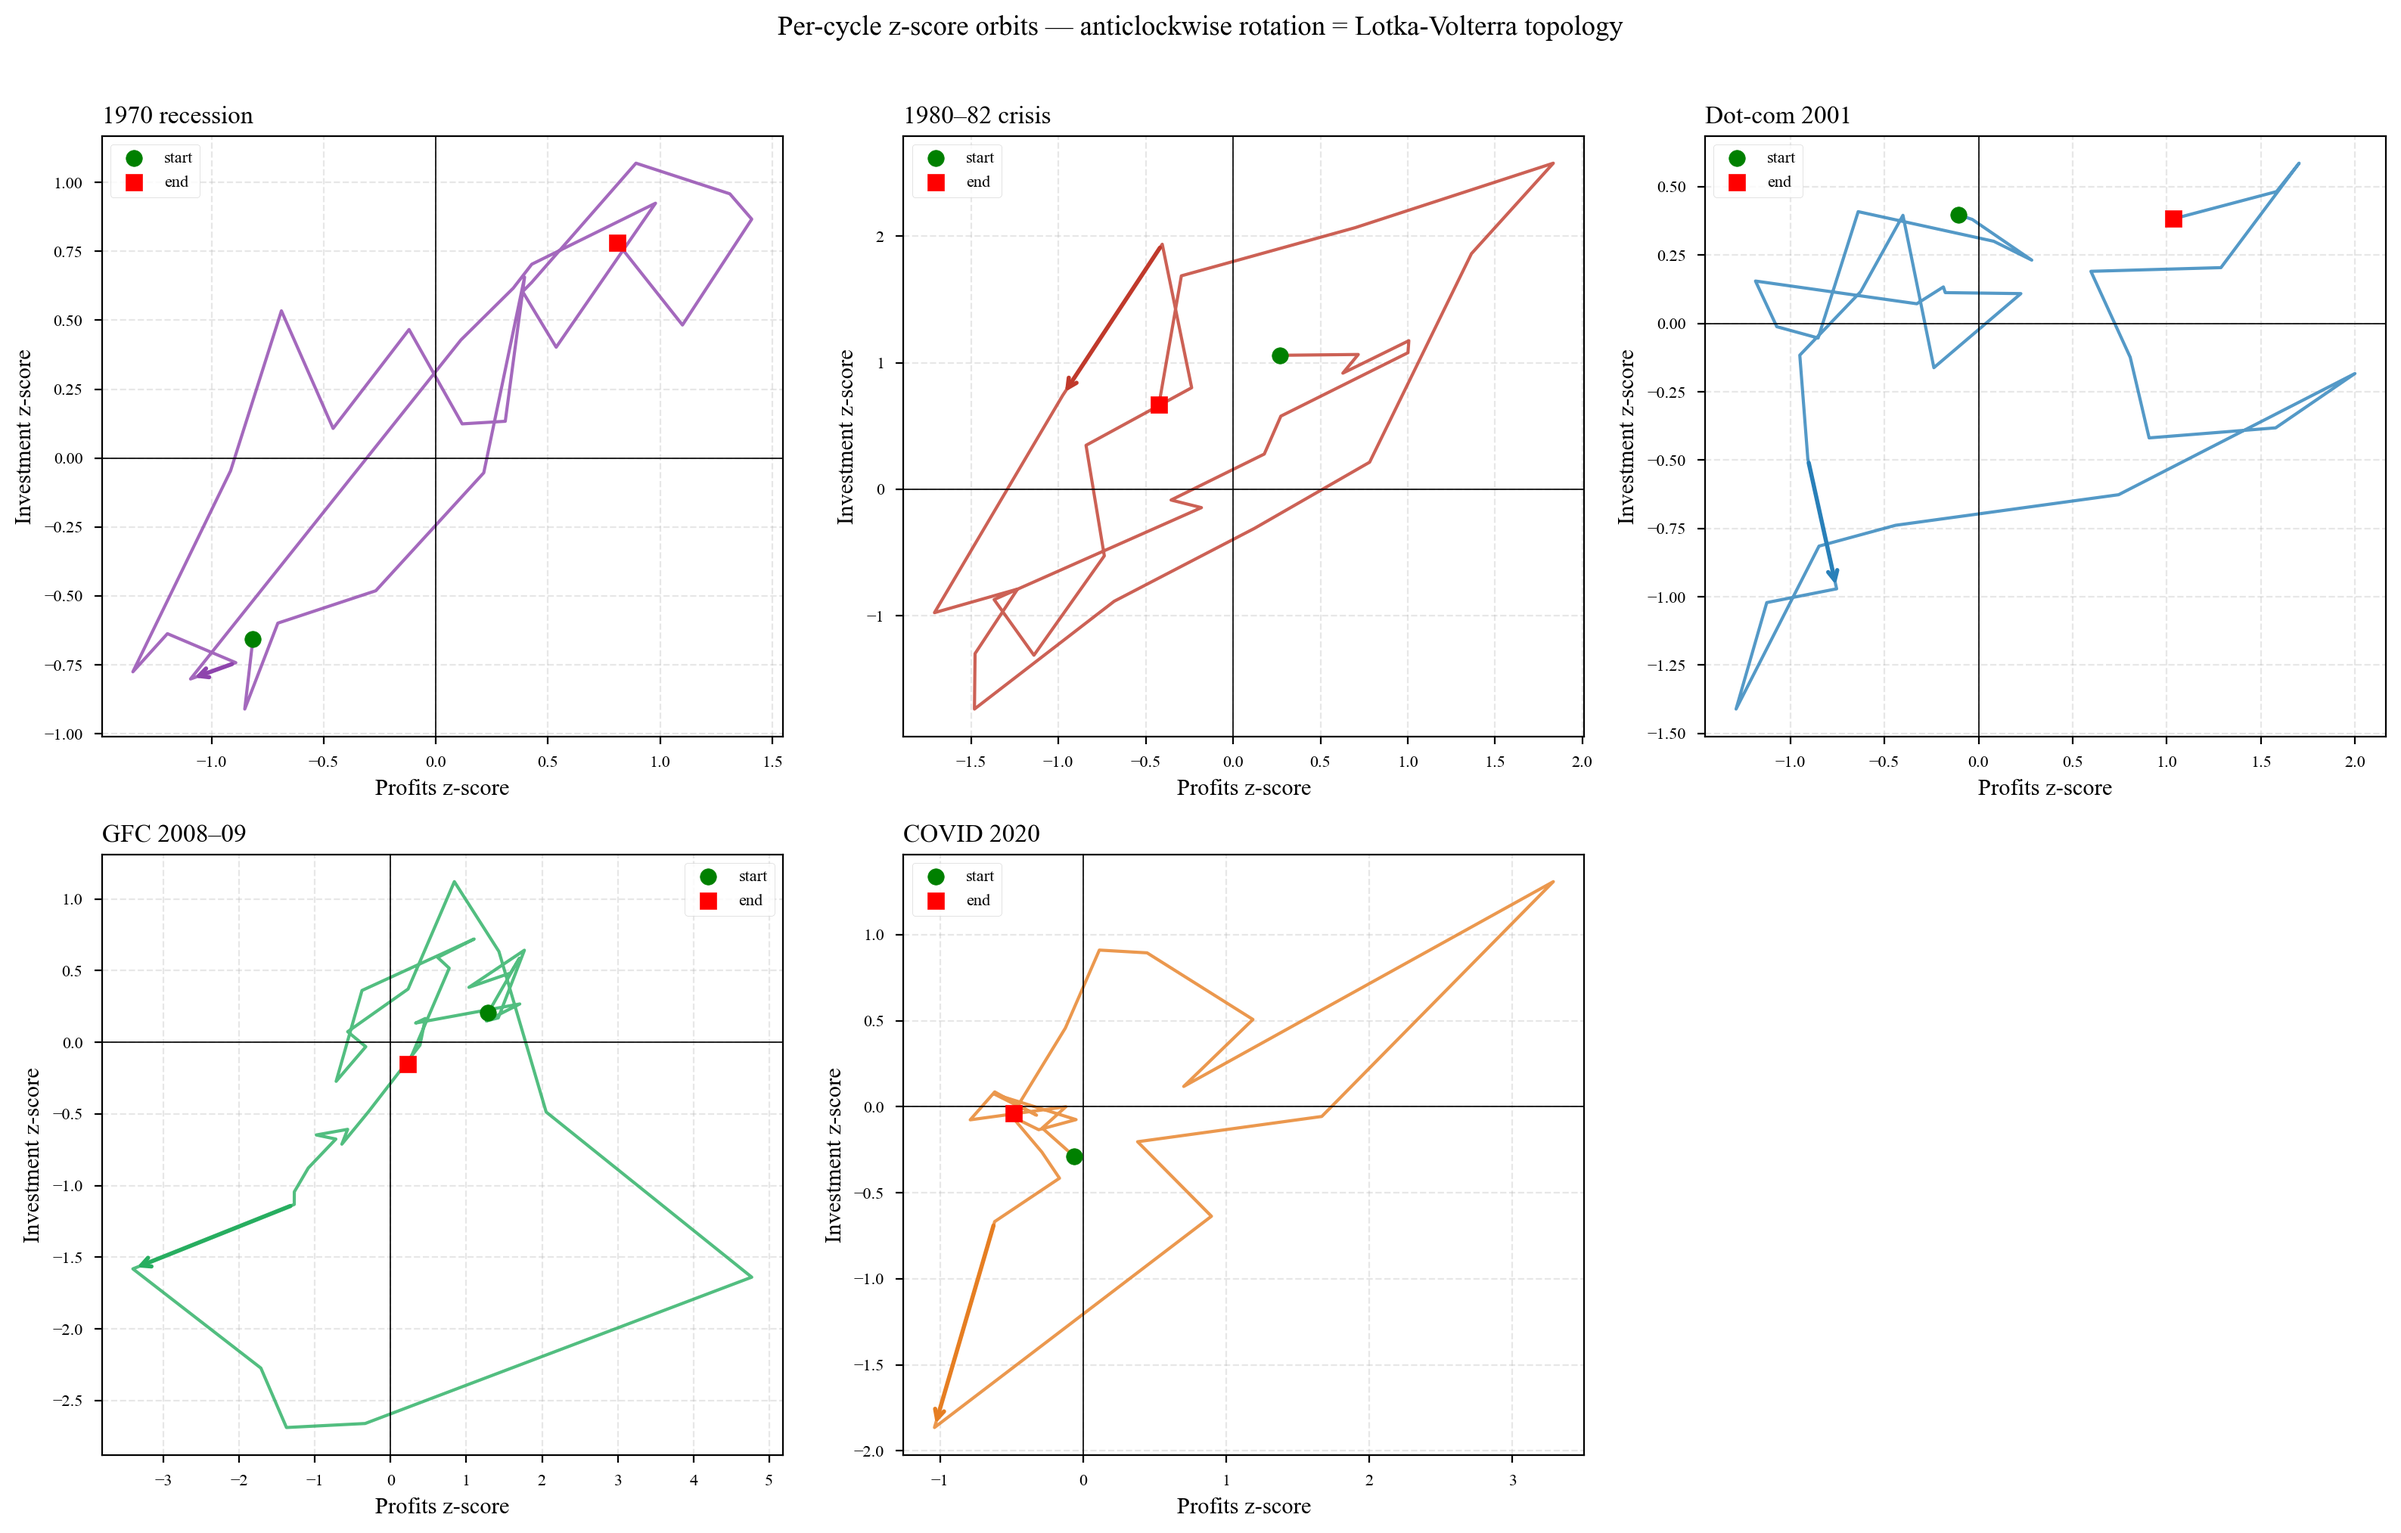
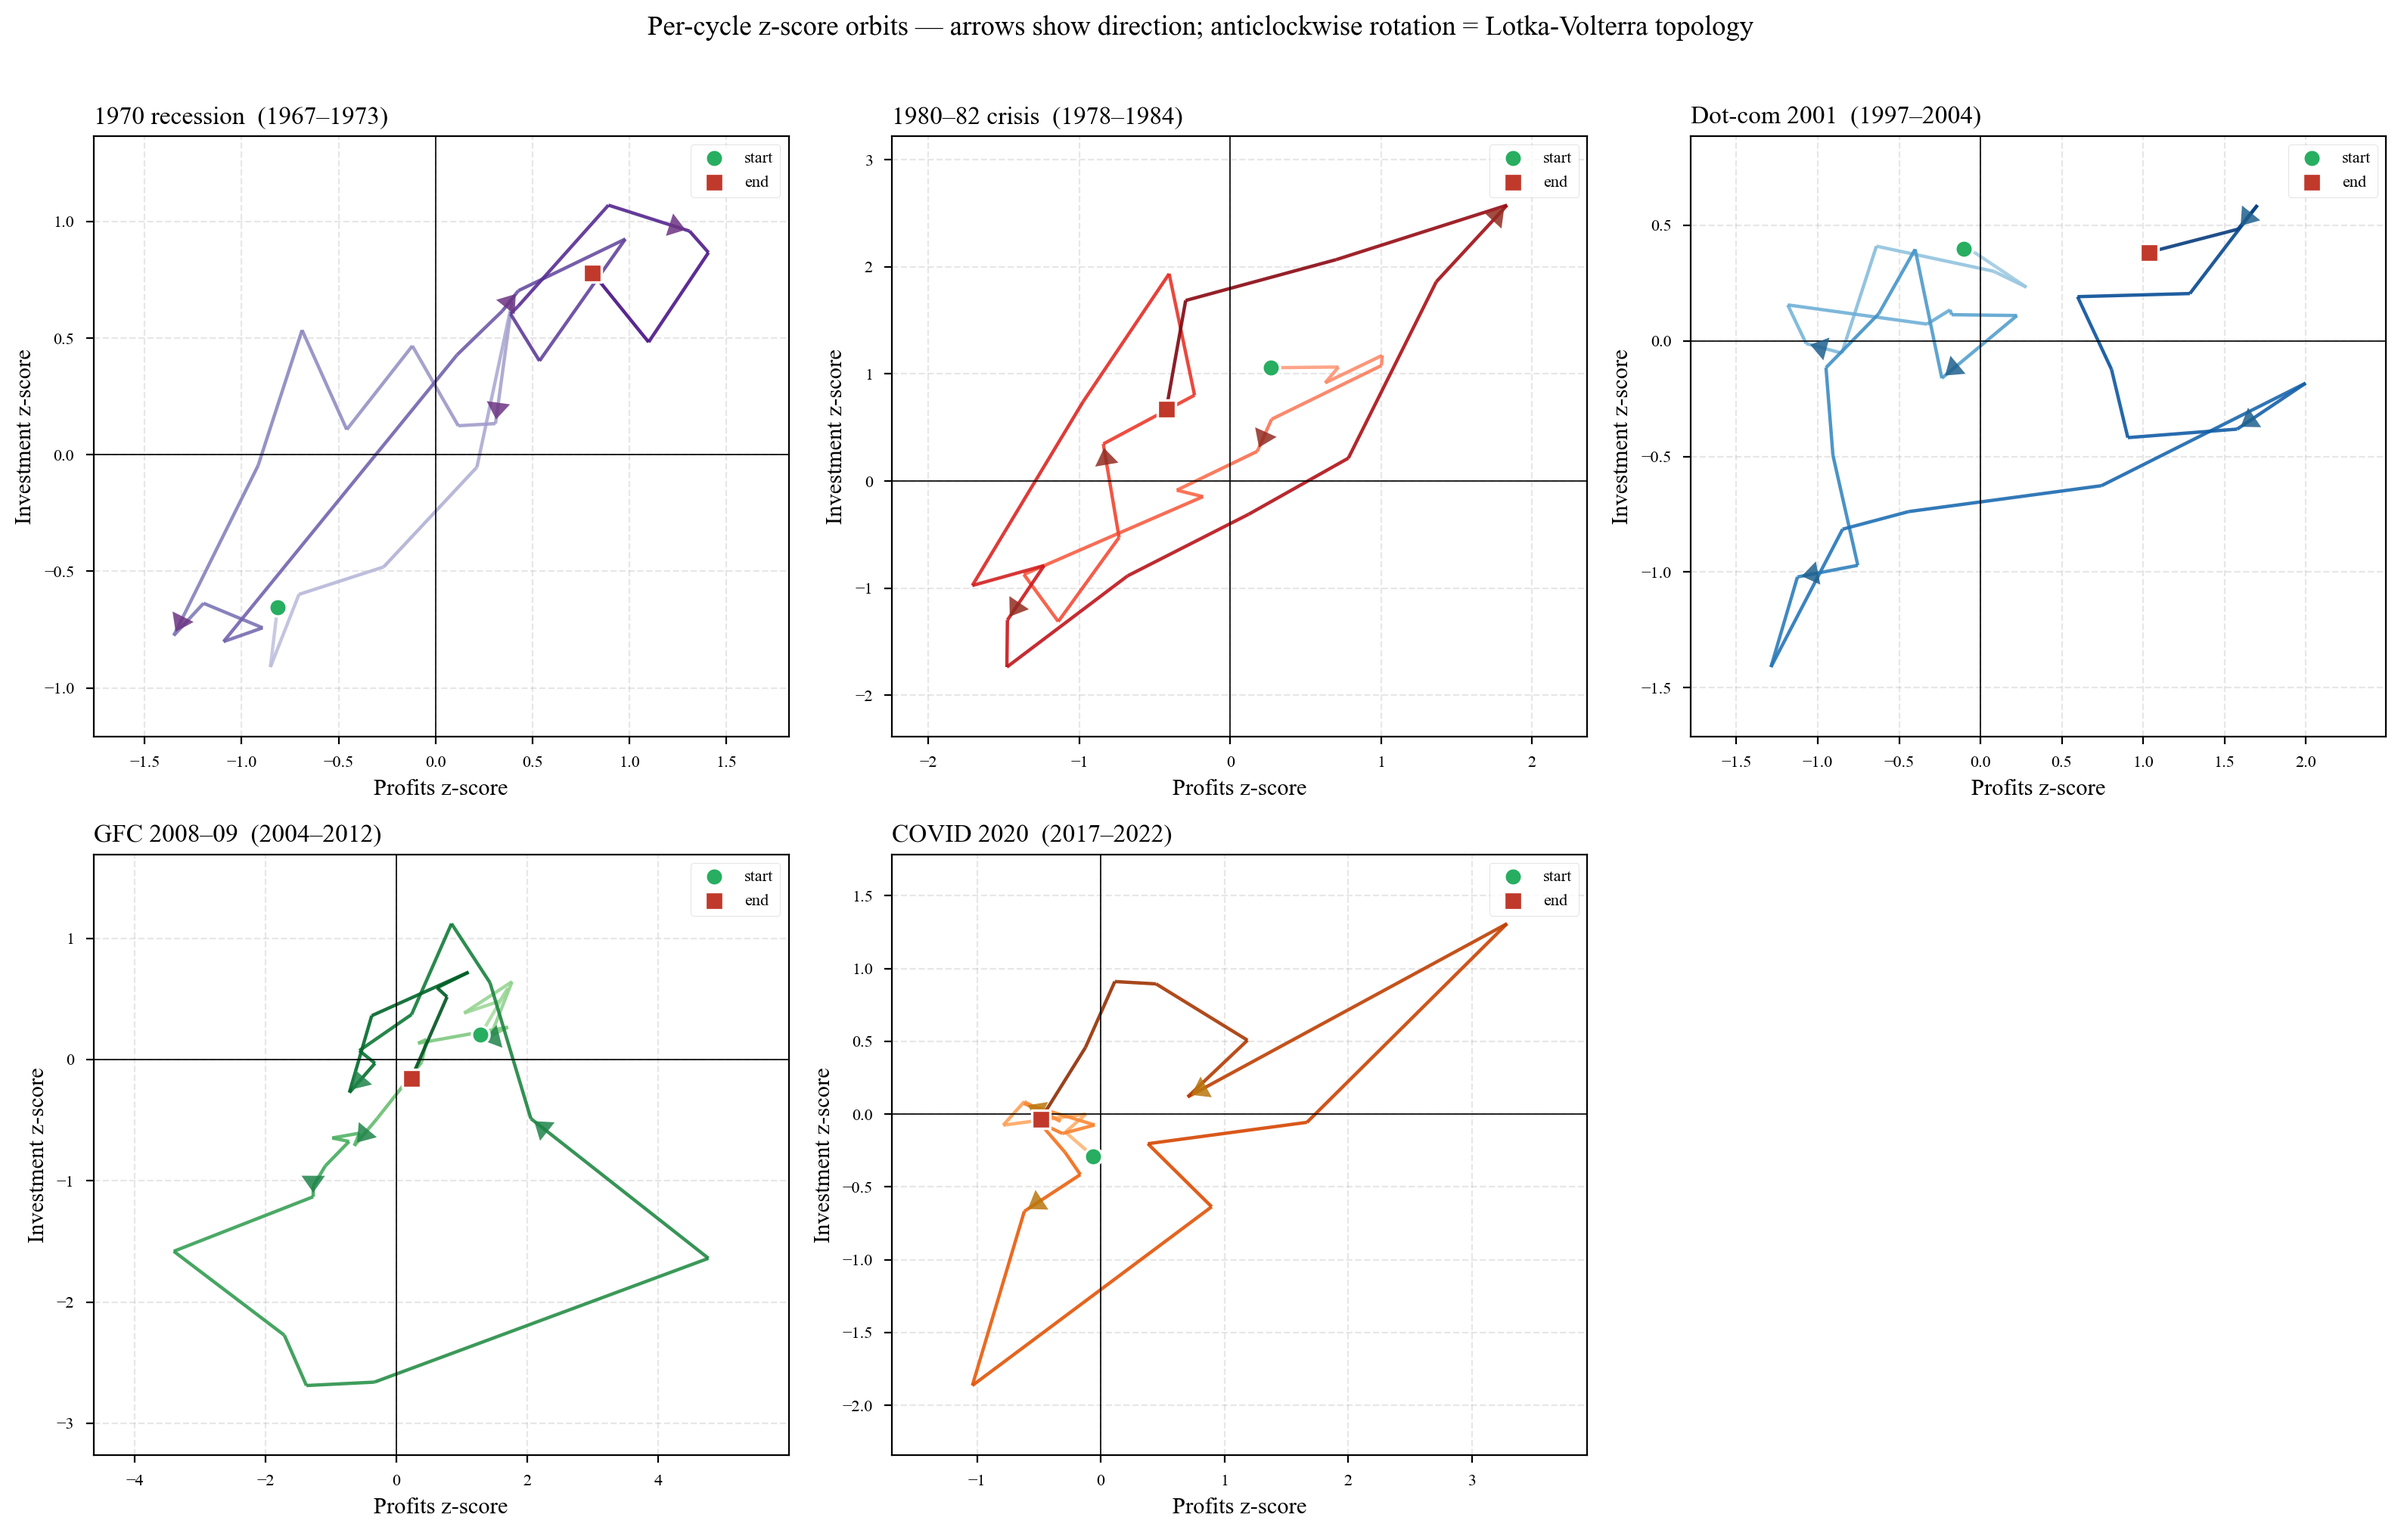
feat(phase_plot): add arrows to the phase plot

diff --git a/src/eda/eda_03_espacio_fases.py b/src/eda/eda_03_espacio_fases.py
@@ -8,7 +8,10 @@ Run:  uv run python -m src.eda.eda_03_espacio_fases
 import matplotlib.cm as cm
 import matplotlib.colors as mcolors
 import matplotlib.pyplot as plt
+import numpy as np
 import pandas as pd
+from matplotlib.collections import LineCollection
+from matplotlib.patches import FancyArrowPatch
 
 from src.eda._style import DATA_PROCESSED, PLOTS_DIR, setup
 
@@ -111,28 +114,59 @@ def main() -> None:
     }
     fig, axes = plt.subplots(2, 3, figsize=(16, 10))
     axes = axes.flatten()
-    cycle_colors = ["#8e44ad", "#c0392b", "#2980b9", "#27ae60", "#e67e22"]
+    cycle_cmaps = ["Purples", "Reds", "Blues", "Greens", "Oranges"]
+    cycle_dark = ["#6c3483", "#922b21", "#1f618d", "#1e8449", "#b9770e"]
+    arrow_every = 6  # quarters between arrowheads (~1.5 years)
 
-    for ax, (label, (start, end)), color in zip(axes, cycles.items(), cycle_colors):
+    for ax, (label, (start, end)), cmap_name, dark in zip(
+        axes, cycles.items(), cycle_cmaps, cycle_dark
+    ):
         sub = df.loc[start:end]
         if sub.empty or len(sub) < 3:
             ax.set_visible(False)
             continue
-        ax.plot(sub["P_z"], sub["I_z"], color=color, lw=1.5, alpha=0.8)
-        mid = len(sub) // 2
-        ax.annotate("", xy=(sub["P_z"].iloc[mid + 1], sub["I_z"].iloc[mid + 1]),
-                    xytext=(sub["P_z"].iloc[mid], sub["I_z"].iloc[mid]),
-                    arrowprops=dict(arrowstyle="->", color=color, lw=2))
-        ax.scatter(sub["P_z"].iloc[0], sub["I_z"].iloc[0], color="green", s=60, zorder=5, label="start")
-        ax.scatter(sub["P_z"].iloc[-1], sub["I_z"].iloc[-1], color="red", s=60, marker="s", zorder=5, label="end")
+
+        x = sub["P_z"].to_numpy()
+        y = sub["I_z"].to_numpy()
+        points = np.array([x, y]).T.reshape(-1, 1, 2)
+        segments = np.concatenate([points[:-1], points[1:]], axis=1)
+        seg_norm = mcolors.Normalize(vmin=0, vmax=len(segments) - 1)
+        seg_cmap = plt.get_cmap(cmap_name)
+        # restrict colormap range so the lightest segments are still readable
+        seg_colors = seg_cmap(0.35 + 0.6 * seg_norm(np.arange(len(segments))))
+        lc = LineCollection(segments, colors=seg_colors, linewidths=1.6, alpha=0.9)
+        ax.add_collection(lc)
+
+        for i in range(arrow_every, len(x) - 1, arrow_every):
+            arrow = FancyArrowPatch(
+                (x[i - 1], y[i - 1]), (x[i], y[i]),
+                arrowstyle="-|>,head_length=5,head_width=3.5",
+                mutation_scale=1.6,
+                color=dark, lw=0, alpha=0.85, zorder=4,
+            )
+            ax.add_patch(arrow)
+
+        ax.scatter(x[0], y[0], color="#27ae60", s=70, zorder=5,
+                   edgecolor="white", linewidth=1.2, label="start")
+        ax.scatter(x[-1], y[-1], color="#c0392b", s=70, marker="s", zorder=5,
+                   edgecolor="white", linewidth=1.2, label="end")
         ax.axhline(0, color="black", lw=0.6)
         ax.axvline(0, color="black", lw=0.6)
-        ax.set_title(label, loc="left")
+        pad = 0.15
+        ax.set_xlim(x.min() - pad * (x.max() - x.min()),
+                    x.max() + pad * (x.max() - x.min()))
+        ax.set_ylim(y.min() - pad * (y.max() - y.min()),
+                    y.max() + pad * (y.max() - y.min()))
+        ax.set_title(f"{label}  ({sub.index[0].year}–{sub.index[-1].year})", loc="left")
         ax.set_xlabel("Profits z-score")
         ax.set_ylabel("Investment z-score")
-        ax.legend(fontsize=8)
+        ax.legend(fontsize=8, loc="best")
     axes[-1].set_visible(False)
-    fig.suptitle("Per-cycle z-score orbits — anticlockwise rotation = Lotka-Volterra topology", y=1.01)
+    fig.suptitle(
+        "Per-cycle z-score orbits — arrows show direction; "
+        "anticlockwise rotation = Lotka-Volterra topology",
+        y=1.01,
+    )
     fig.tight_layout()
     fig.savefig(PLOTS_DIR / "03_orbitas_zscore_por_ciclo.png", dpi=200, bbox_inches="tight")
     plt.close(fig)
